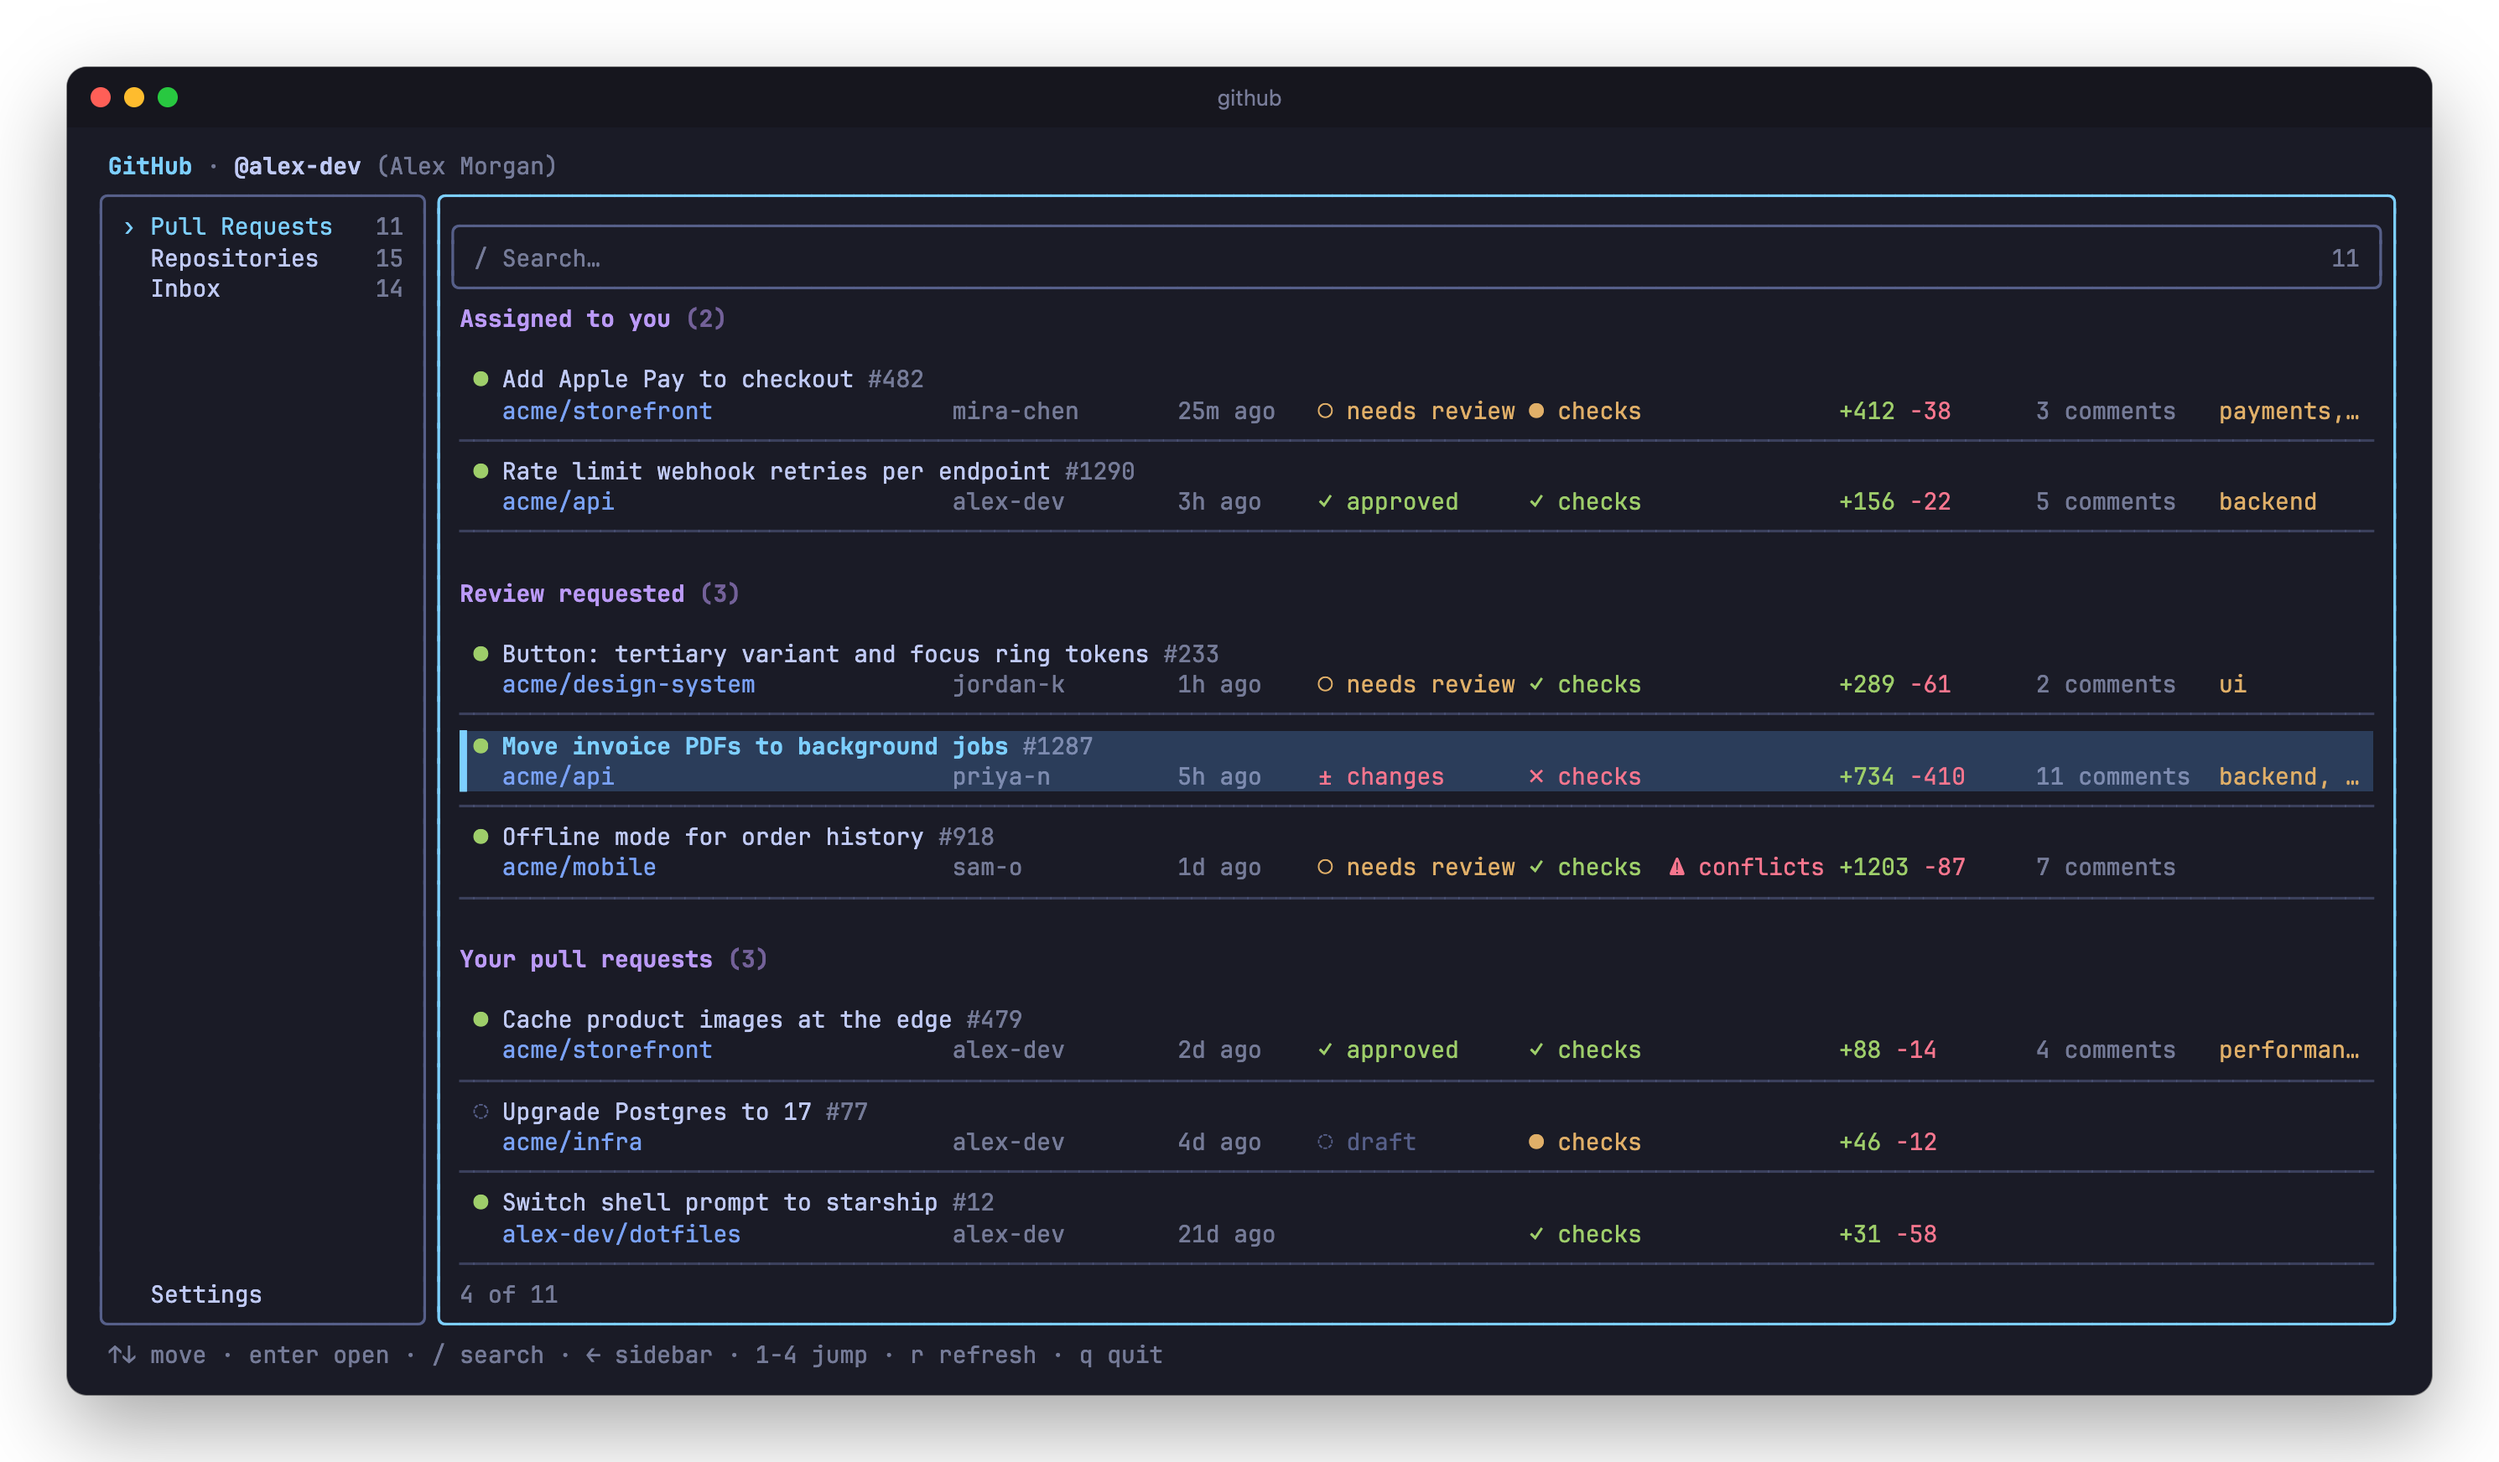
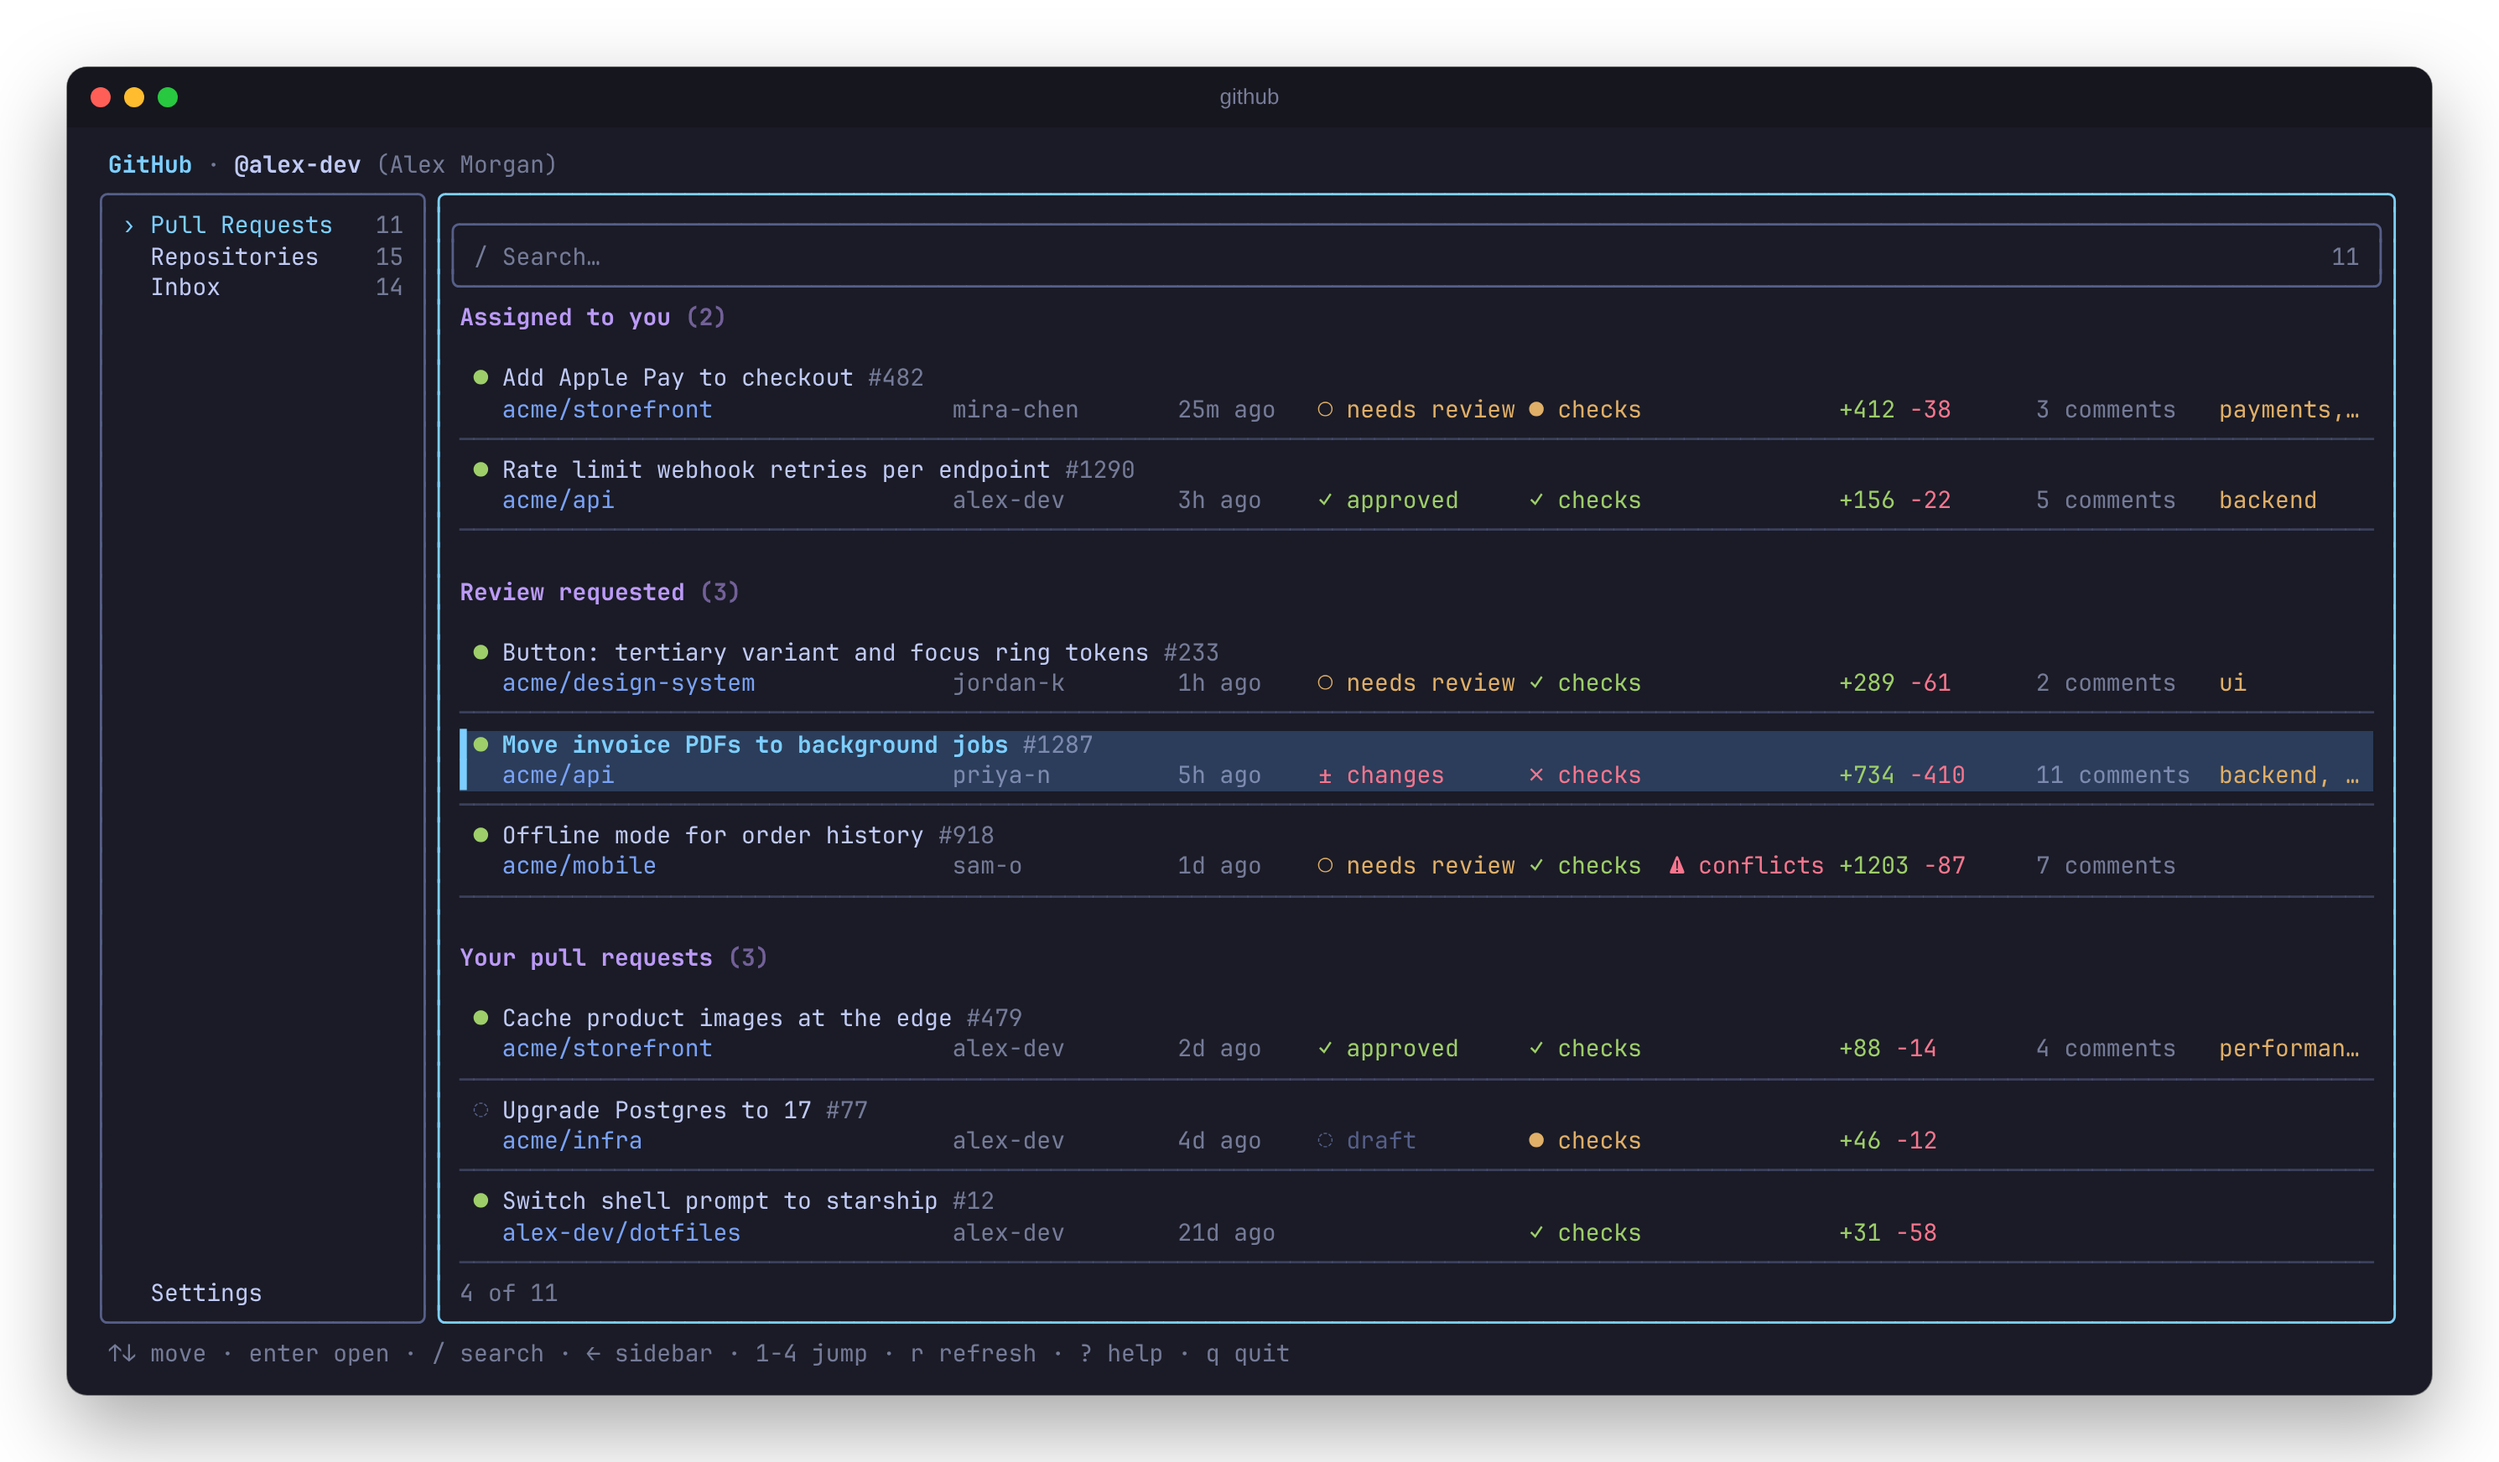
Show keyboard shortcuts on ? (#1)
Press ? on any page to list every key, including ones the hint bar
leaves out (g/G, home/end, pgup/pgdn, h/l, tab). The page stays mounted
under the help panel, so it keeps its selection. The hint bar now shows
? help, and the README screenshots are remade.

diff --git a/src/App.tsx b/src/App.tsx
@@ -2,6 +2,7 @@ import {Box, Text, useApp, useInput, useWindowSize} from 'ink';
 import {Fragment, type ReactNode, useEffect, useMemo, useState} from 'react';
 import type {ActionQueue} from './actions.js';
 import type {GitHubClient, Viewer} from './github.js';
+import {HELP_HINTS, HelpPanel} from './Help.js';
 import {PROMPT_HINTS, type Prompt, PromptBox, promptHeight} from './Prompt.js';
 import {INBOX_HINTS, InboxPage} from './pages/Inbox.js';
 import {PullRequestsPage, visiblePullRequests} from './pages/PullRequests.js';
@@ -41,6 +42,7 @@ export function App({gh, viewer, actions, settings: initialSettings = DEFAULT_SE
 	const [searches, setSearches] = useState<Partial<Record<Page['id'], Search>>>({});
 	const [message, setMessage] = useState('');
 	const [prompt, setPrompt] = useState<{prompt: Prompt; selected: number} | null>(null);
+	const [help, setHelp] = useState(false);
 	const [settings, setSettings] = useState(initialSettings);
 	const theme = findTheme(settings.theme);
 
@@ -136,8 +138,14 @@ export function App({gh, viewer, actions, settings: initialSettings = DEFAULT_SE
 			}
 			return;
 		}
+		if (help) {
+			if (key.escape || input === '?') return setHelp(false);
+			if (input === 'q') return exit();
+			return;
+		}
 
 		if (input === 'q') return exit();
+		if (input === '?') return setHelp(true);
 		if (input === '/') {
 			setFocus('main');
 			return setSearch({searching: true});
@@ -167,7 +175,7 @@ export function App({gh, viewer, actions, settings: initialSettings = DEFAULT_SE
 		height: mainHeight,
 		query: search.query,
 		searching: search.searching,
-		active: focus === 'main' && !prompt,
+		active: focus === 'main' && !prompt && !help,
 		onMessage: setMessage,
 		onPrompt: next => setPrompt({prompt: next, selected: 0}),
 	};
@@ -213,7 +221,10 @@ export function App({gh, viewer, actions, settings: initialSettings = DEFAULT_SE
 						))}
 					</Box>
 					<Box flexDirection="column" flexGrow={1} borderStyle="round" {...borderProps(theme, focus === 'main')}>
-						{current.render(pageProps)}
+						{help ? <HelpPanel height={mainHeight} pageCount={pages.length} /> : null}
+						<Box display={help ? 'none' : 'flex'} flexDirection="column">
+							{current.render(pageProps)}
+						</Box>
 					</Box>
 				</Box>
 				{prompt ? <PromptBox prompt={prompt.prompt} selected={prompt.selected} /> : null}
@@ -224,7 +235,7 @@ export function App({gh, viewer, actions, settings: initialSettings = DEFAULT_SE
 						</Text>
 					) : (
 						<Muted wrap="truncate-end">
-							{prompt ? PROMPT_HINTS : hints(current, pages.length, focus, search.searching)}
+							{prompt ? PROMPT_HINTS : help ? HELP_HINTS : hints(current, pages.length, focus, search.searching)}
 						</Muted>
 					)}
 				</Box>
@@ -266,7 +277,7 @@ function SidebarItem({
 function hints(page: Page, pageCount: number, focus: Focus, searching: boolean): string {
 	if (searching) return 'type to filter · ↑↓ move · enter open · esc done · ctrl+u clear';
 	const jump = `1-${pageCount} jump`;
-	if (focus === 'sidebar') return `↑↓ switch page · → / enter go to list · / search · ${jump} · q quit`;
-	const base = `↑↓ move · enter open · / search · ← sidebar · ${jump} · r refresh · q quit`;
+	if (focus === 'sidebar') return `↑↓ switch page · → / enter go to list · / search · ${jump} · ? help · q quit`;
+	const base = `↑↓ move · enter open · / search · ← sidebar · ${jump} · r refresh · ? help · q quit`;
 	return page.hints ? `${page.hints} · ${base}` : base;
 }

diff --git a/src/Help.tsx b/src/Help.tsx
@@ -1,0 +1,105 @@
+import {Box, Text} from 'ink';
+import {Cell} from './ListView.js';
+import {Muted, useTheme} from './theme.js';
+
+export const HELP_HINTS = 'esc close · q quit';
+
+type Section = {title: string; keys: [keys: string, action: string][]};
+
+const sections = (pageCount: number): Section[][] => [
+	[
+		{
+			title: 'Anywhere',
+			keys: [
+				['?', 'Show or hide this help'],
+				['/', 'Search this page'],
+				[`1-${pageCount}`, 'Jump to a page, in sidebar order'],
+				['r', 'Refresh this page'],
+				['tab', 'Switch between the sidebar and the list'],
+				['q', 'Quit'],
+			],
+		},
+		{
+			title: 'List',
+			keys: [
+				['↑ ↓  j k', 'Move'],
+				['g  home', 'Top of the list'],
+				['G  end', 'Bottom of the list'],
+				['pgup  pgdn', 'Up or down a page'],
+				['enter', 'Open in the browser (or ask GitHub or slice)'],
+				['← h', 'Focus the sidebar'],
+				['esc', 'Clear the search'],
+			],
+		},
+		{
+			title: 'Sidebar',
+			keys: [
+				['↑ ↓  j k', 'Switch page'],
+				['→ l  enter', 'Go to the list'],
+			],
+		},
+	],
+	[
+		{
+			title: 'Search',
+			keys: [
+				['type', 'Filter the list'],
+				['↑ ↓', 'Move'],
+				['enter', 'Open'],
+				['esc', 'Stop typing (esc again clears)'],
+				['ctrl+u', 'Clear the search'],
+			],
+		},
+		{
+			title: 'Inbox',
+			keys: [
+				['e', 'Mark done'],
+				['t', 'Unsubscribe (also marks done)'],
+				['u', 'Undo the last done or unsubscribe (15 seconds)'],
+			],
+		},
+		{
+			title: 'Settings',
+			keys: [
+				['enter', 'Use the theme or switch the option'],
+				['shift+j  shift+k', 'Move the sidebar page down or up'],
+			],
+		},
+	],
+];
+
+// Replaces the page in the main panel. The page stays mounted underneath, so it keeps its selection.
+export function HelpPanel({height, pageCount}: {height: number; pageCount: number}) {
+	const t = useTheme();
+	return (
+		<Box flexDirection="column" height={height} overflow="hidden" paddingX={1}>
+			<Box marginBottom={1}>
+				<Text bold color={t.accent}>
+					Keyboard shortcuts
+				</Text>
+				<Muted> · esc or ? to close</Muted>
+			</Box>
+			<Box>
+				{sections(pageCount).map(column => (
+					<Box key={column[0]?.title} flexDirection="column" flexGrow={1} flexBasis={0} gap={1}>
+						{column.map(section => (
+							<Box key={section.title} flexDirection="column">
+								<Text bold color={t.group}>
+									{section.title}
+								</Text>
+								{section.keys.map(([keys, action]) => (
+									<Box key={keys}>
+										<Cell w={18}>
+											<Text color={t.accent}>{keys}</Text>
+										</Cell>
+										<Cell grow>{action}</Cell>
+									</Box>
+								))}
+							</Box>
+						))}
+					</Box>
+				))}
+			</Box>
+		</Box>
+	);
+}

diff --git a/test/app.test.tsx b/test/app.test.tsx
@@ -154,6 +154,41 @@ describe('App (demo data)', () => {
 		expect(app.frame()).toContain('Open acme/storefront #482');
 	});
 
+	it('shows ? help in the key hints', () => {
+		expect(app.frame()).toContain('? help');
+	});
+
+	it('lists every keyboard shortcut on ?', async () => {
+		await app.press('?');
+		const frame = app.frame();
+		expect(frame).toContain('Keyboard shortcuts');
+		expect(frame).toMatch(/g +home +Top of the list/);
+		expect(frame).toMatch(/pgup +pgdn +Up or down a page/);
+		expect(frame).toMatch(/e +Mark done/);
+		expect(frame).toMatch(/shift\+j +shift\+k +Move the sidebar page/);
+		expect(frame).toContain('esc close');
+		expect(frame).not.toContain('Add Apple Pay to checkout');
+		expect(frame.split('\n').length).toBeLessThanOrEqual(ROWS);
+	});
+
+	it('closes help on escape or ? and keeps the selection', async () => {
+		await app.press('j', '?', 'j', 'j');
+		expect(app.frame()).toContain('Keyboard shortcuts');
+
+		await app.press(keys.escape);
+		expect(app.frame()).not.toContain('Keyboard shortcuts');
+		expect(app.frame()).toMatch(/▌.*Rate limit webhook retries/);
+
+		await app.press('?', '?');
+		expect(app.frame()).not.toContain('Keyboard shortcuts');
+	});
+
+	it('types ? into the search box instead of opening help', async () => {
+		await app.press('/', '?');
+		expect(app.frame()).toContain('/ ?');
+		expect(app.frame()).not.toContain('Keyboard shortcuts');
+	});
+
 	it('moves focus to the sidebar and switches pages with arrows', async () => {
 		await app.press(keys.left, keys.down);
 		expect(app.frame()).toContain('› Repositories');

diff --git a/README.md b/README.md
@@ -22,6 +22,10 @@ The app uses your `gh` login and never stores a token: it asks `gh auth token` e
 
 **Open in slice.** Turn on "Ask to open in slice" in Settings. Then `enter` on a pull request asks where to open it: `s` reviews the diff in the terminal with [slice](https://github.com/gavinomelia/slice), and `g` opens GitHub. Install slice with `npm install -g @gavinomelia/slice`. The app runs `slice <PR URL>` from an empty git folder in `~/.cache/github-tui/slice`, so you don't need a local clone. Quit slice with `q` to come back. slice's AI review (`--ai`) isn't offered, because it needs a clone of the repo.
 
+**Keyboard shortcuts.** Press `?` on any page to see every key. Press `esc` or `?` again to close it.
+
+![Keyboard shortcuts help](docs/screenshots/help.png)
+
 > Screenshots use made-up data. Run `github --demo` to try the UI without touching your account.
 
 ## Install
@@ -115,7 +119,10 @@ From source: `rm ~/.local/bin/github`, then delete the cloned folder.
 
 | Key | Action |
 | --- | --- |
+| `?` | Show or hide the keyboard shortcuts |
 | `↑` `↓` / `j` `k` | Move |
+| `g` / `home`, `G` / `end` | Top or bottom of the list |
+| `pgup` `pgdn` | Up or down a page |
 | `enter` | Open in browser, or ask GitHub or slice for a pull request when that setting is on (Settings: use the selected theme or switch the selected option) |
 | `/` | Focus search (`esc` to leave, `esc` again to clear) |
 | `←` / `h`, `tab` | Focus sidebar |
